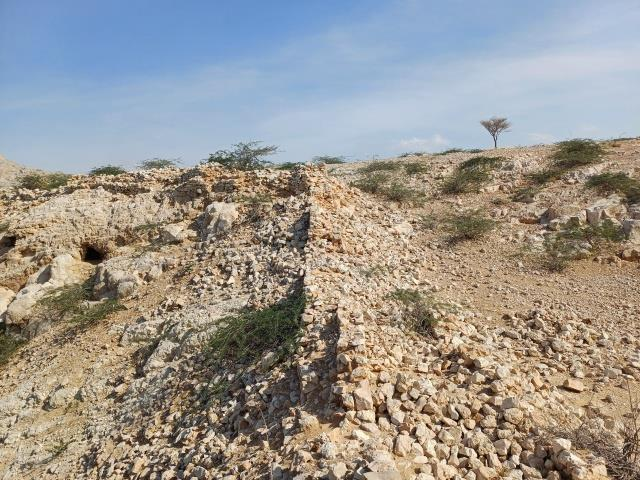
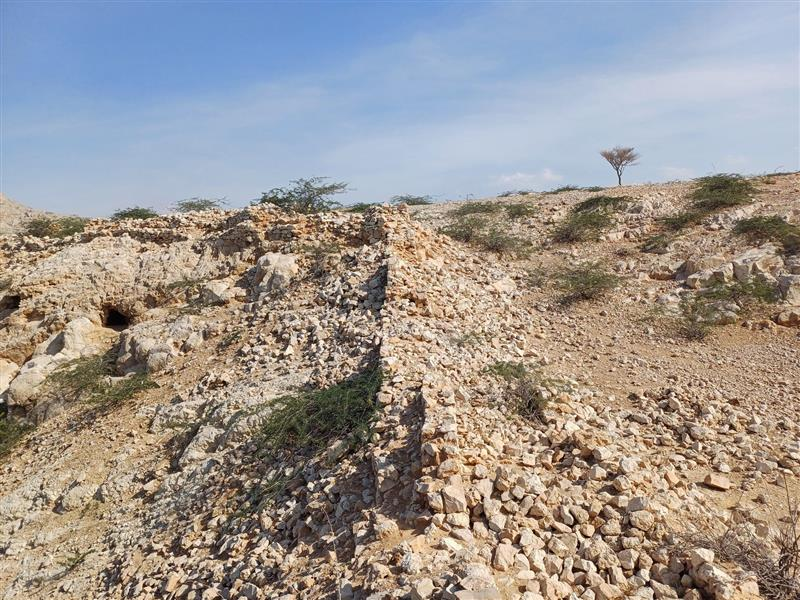
1

diff --git a/travel/UAE-2024/UAE-2024.html b/travel/UAE-2024/UAE-2024.html
@@ -315,7 +315,7 @@
       растительность.</p>
 
     <div class="gallery single">
-      <div class="thumb"><img src="./thumbs/00.jpg" data-full="./photos/00.jpg" alt="Вид на ОАЭ" loading="lazy"></div>
+      <div class="thumb"><img src="./thumbs/00.jpg" data-full="./photos/00.jpg" alt="" loading="lazy"></div>
     </div>
 
     <p>Казалось бы, никаких предпосылок для хорошего уровня жизни у этого региона нет, жизнь тут и была не очень то
@@ -358,11 +358,13 @@
       рандомных местах, иногда обрываются, иногда становятся узкими, иногда отсутствуют. Место, где пешеходам уступают
       дорогу мы нашли всего одно в городе)) около главного ТЦ.</p>
 
-    <div class="gallery single">
-      <div class="thumb"><img src="./thumbs/10.jpg" data-full="./photos/10.jpg" alt="Газон вместо тротуара"
-          loading="lazy"></div>
+    <div class="gallery">
+      <div class="thumb"><img src="./thumbs/10.jpg" data-full="./photos/10.jpg" alt="" loading="lazy"></div>
+      <div class="thumb"><img src="./thumbs/11.jpg" data-full="./photos/11.jpg" alt="Куст съел тротуар" loading="lazy">
+      </div>
+      <div class="thumb"><img src="./thumbs/12.jpg" data-full="./photos/12.jpg"
+          alt="Газон есть, а лучше бы сделали тротуар" loading="lazy"></div>
     </div>
-    <div class="caption">Газон есть, а лучше бы сделали тротуар</div>
 
     <p>В нашем городе напрочь отсутствовал транспорт, были только автобусы, однако цена на них была такая же, как на
       такси. За поездку в 6км мы заплатили 12 AED (за двоих 24 AED) на человека, то есть 280 рублей . Такси в стране
@@ -549,20 +551,13 @@
       море</p>
 
     <div class="gallery">
-      <div class="thumb"><img src="./thumbs/70.jpg" data-full="./photos/70.jpg"
-          alt="Руины замка Queen of Sheba's Palace" loading="lazy"></div>
-      <div class="thumb"><img src="./thumbs/71.jpg" data-full="./photos/71.jpg"
-          alt="Руины замка Queen of Sheba's Palace" loading="lazy"></div>
-      <div class="thumb"><img src="./thumbs/72.jpg" data-full="./photos/72.jpg"
-          alt="Руины замка Queen of Sheba's Palace" loading="lazy"></div>
-      <div class="thumb"><img src="./thumbs/73.jpg" data-full="./photos/73.jpg"
-          alt="Руины замка Queen of Sheba's Palace" loading="lazy"></div>
-      <div class="thumb"><img src="./thumbs/74.jpg" data-full="./photos/74.jpg"
-          alt="Руины замка Queen of Sheba's Palace" loading="lazy"></div>
-      <div class="thumb"><img src="./thumbs/75.jpg" data-full="./photos/75.jpg"
-          alt="Руины замка Queen of Sheba's Palace" loading="lazy"></div>
-      <div class="thumb"><img src="./thumbs/76.jpg" data-full="./photos/76.jpg"
-          alt="Руины замка Queen of Sheba's Palace" loading="lazy"></div>
+      <div class="thumb"><img src="./thumbs/70.jpg" data-full="./photos/70.jpg" alt="" loading="lazy"></div>
+      <div class="thumb"><img src="./thumbs/71.jpg" data-full="./photos/71.jpg" alt="" loading="lazy"></div>
+      <div class="thumb"><img src="./thumbs/72.jpg" data-full="./photos/72.jpg" alt="" loading="lazy"></div>
+      <div class="thumb"><img src="./thumbs/73.jpg" data-full="./photos/73.jpg" alt="" loading="lazy"></div>
+      <div class="thumb"><img src="./thumbs/74.jpg" data-full="./photos/74.jpg" alt="" loading="lazy"></div>
+      <div class="thumb"><img src="./thumbs/75.jpg" data-full="./photos/75.jpg" alt="" loading="lazy"></div>
+      <div class="thumb"><img src="./thumbs/76.jpg" data-full="./photos/76.jpg" alt="" loading="lazy"></div>
     </div>
 
     <p>Обратно спустя час смогли поймать такси, он назвал цену 25 AED, однако когда мы приехали счетчик насчитал 16 AED,